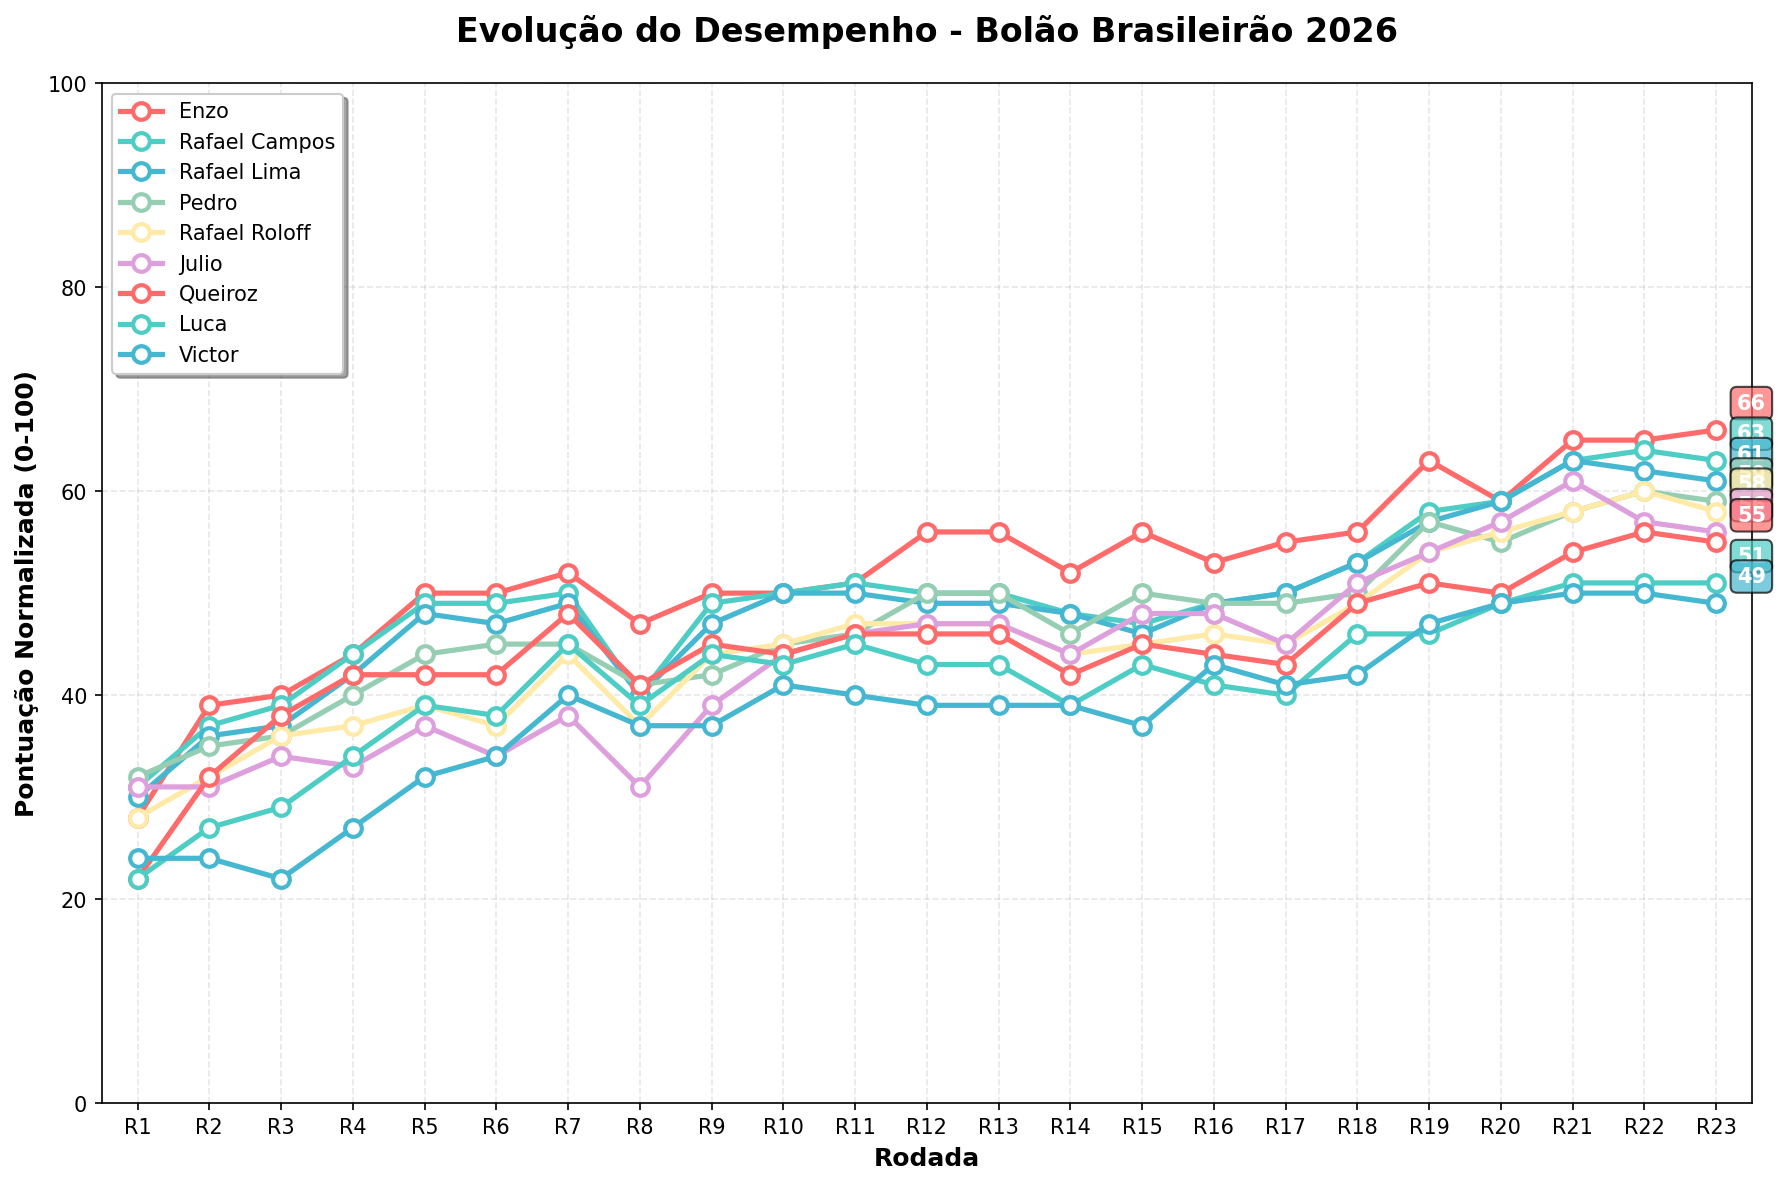
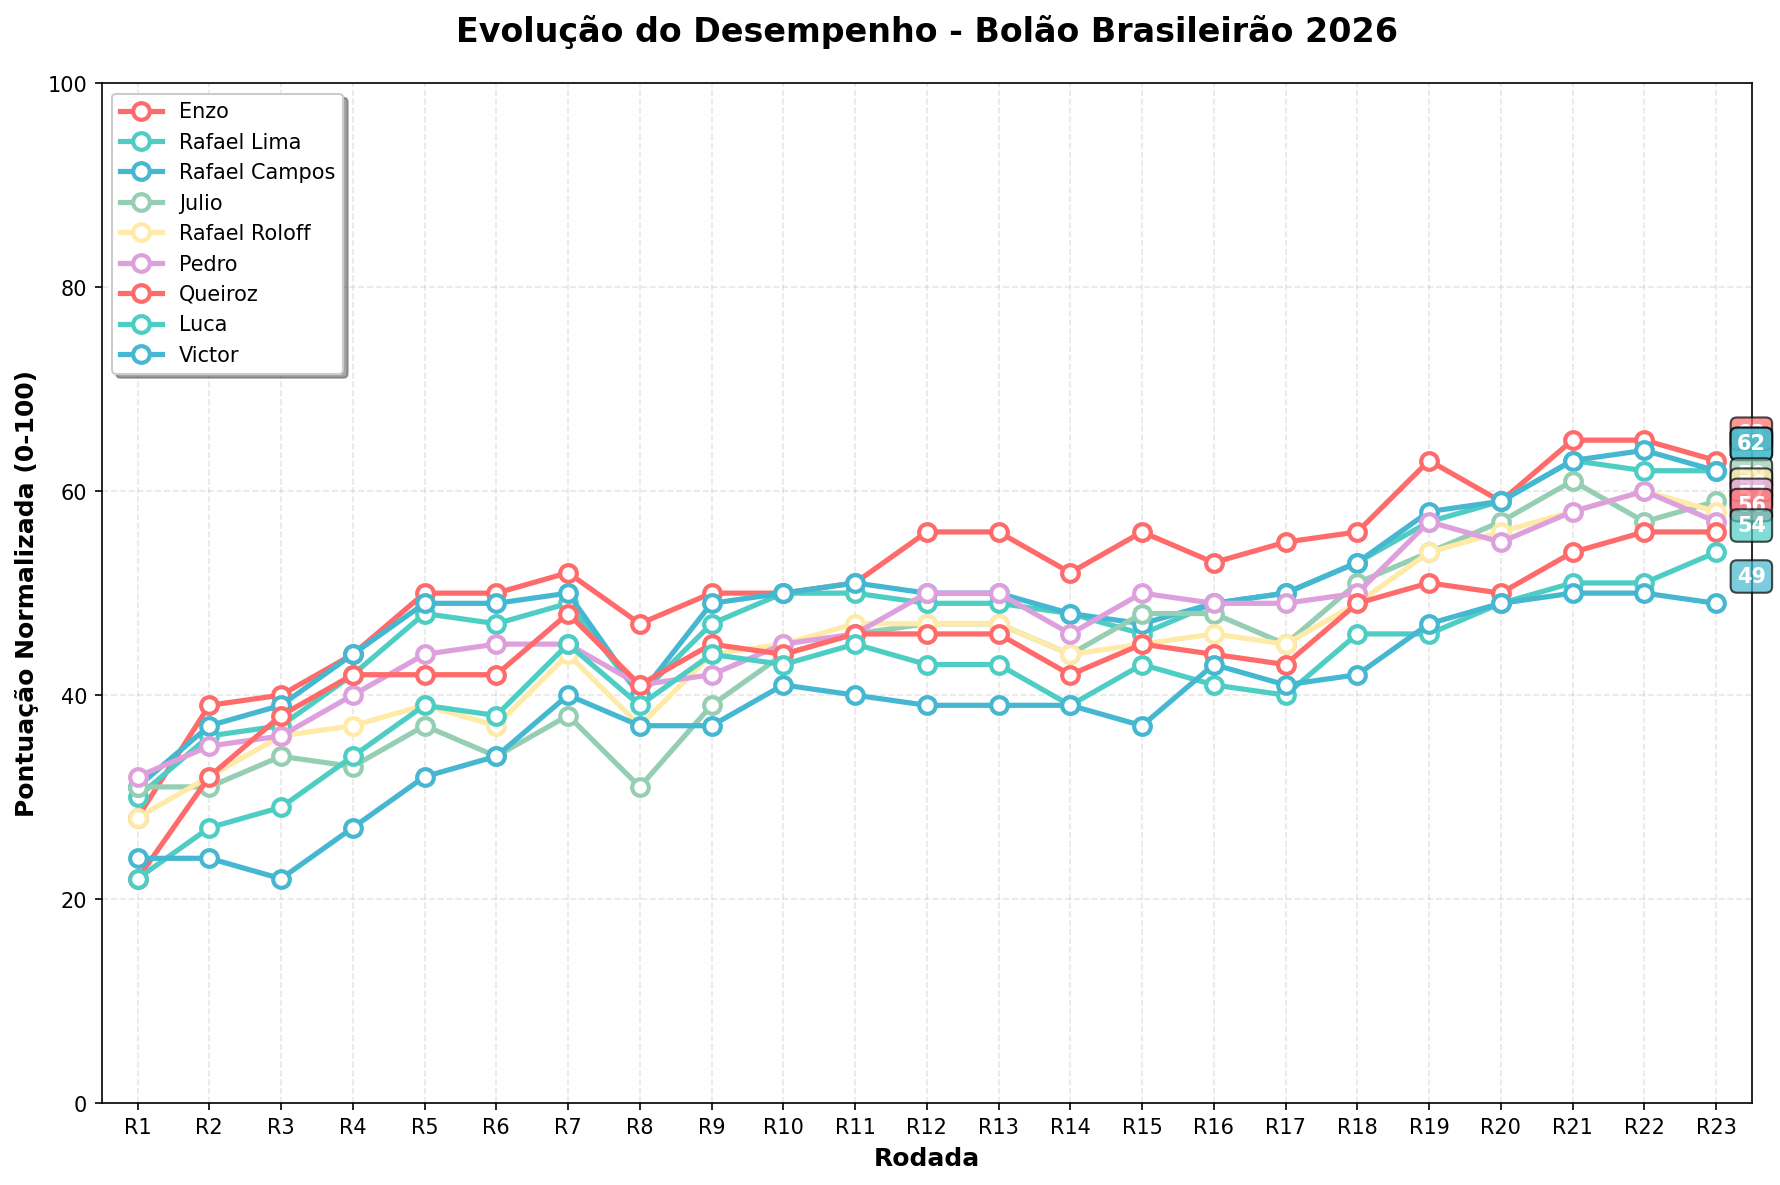
Atualizacao automatica - 18/08/2026 11:00:04,14

diff --git a/README.md b/README.md
@@ -2,70 +2,70 @@
 
 ## 🏆 Resultados Atuais
 
-**Última Atualização:** 2026-08-16 11:00:03
+**Última Atualização:** 2026-08-18 11:00:03
 
-| Time | Real | Enzo | Rafael Campos | Rafael Lima | Pedro | Rafael Roloff | Julio | Queiroz | Luca | Victor |
+| Time | Real | Enzo | Rafael Lima | Rafael Campos | Julio | Rafael Roloff | Pedro | Queiroz | Luca | Victor |
 |------|------|------|------|------|------|------|------|------|------|------|
-| Palmeiras | 1 | 2°(19p) | 3°(18p) | 3°(18p) | 3°(18p) | 2°(19p) | 2°(19p) | 3°(18p) | 3°(18p) | 3°(18p) |
-| Flamengo | 2 | 1°(19p) | 1°(19p) | 1°(19p) | 2°(20p) | 1°(19p) | 1°(19p) | 1°(19p) | 1°(19p) | 1°(19p) |
-| Atlético-PR | 3 | 17°(6p) | 17°(6p) | 17°(6p) | 18°(5p) | 17°(6p) | 17°(6p) | 15°(8p) | 17°(6p) | 13°(10p) |
-| Fluminense | 4 | 4°(20p) | 7°(17p) | 6°(18p) | 4°(20p) | 8°(16p) | 7°(17p) | 7°(17p) | 8°(16p) | 10°(14p) |
-| Cruzeiro | 5 | 3°(18p) | 2°(17p) | 2°(17p) | 1°(16p) | 3°(18p) | 3°(18p) | 2°(17p) | 2°(17p) | 7°(18p) |
-| Bahia | 6 | 5°(19p) | 4°(18p) | 4°(18p) | 7°(19p) | 6°(20p) | 5°(19p) | 4°(18p) | 5°(19p) | 9°(17p) |
-| Bragantino | 7 | 6°(19p) | 10°(17p) | 10°(17p) | 9°(18p) | 13°(14p) | 10°(17p) | 18°(9p) | 13°(14p) | 15°(12p) |
-| Corinthians | 8 | 8°(20p) | 8°(20p) | 9°(19p) | 8°(20p) | 5°(17p) | 9°(19p) | 6°(18p) | 10°(18p) | 8°(20p) |
-| Coritiba | 9 | 15°(14p) | 16°(13p) | 16°(13p) | 19°(10p) | 14°(15p) | 19°(10p) | 12°(17p) | 20°(9p) | 20°(9p) |
-| Botafogo | 10 | 10°(20p) | 9°(19p) | 8°(18p) | 5°(15p) | 7°(17p) | 6°(16p) | 11°(19p) | 11°(19p) | 5°(15p) |
-| Atlético-MG | 11 | 12°(19p) | 5°(14p) | 5°(14p) | 13°(18p) | 4°(13p) | 4°(13p) | 9°(18p) | 4°(13p) | 2°(11p) |
-| São Paulo | 12 | 16°(16p) | 12°(20p) | 14°(18p) | 15°(17p) | 16°(16p) | 15°(17p) | 17°(15p) | 14°(18p) | 16°(16p) |
-| Vitória | 13 | 18°(15p) | 18°(15p) | 18°(15p) | 17°(16p) | 18°(15p) | 16°(17p) | 19°(14p) | 18°(15p) | 17°(16p) |
-| Grêmio | 14 | 7°(13p) | 6°(12p) | 7°(13p) | 6°(12p) | 12°(18p) | 18°(16p) | 5°(11p) | 6°(12p) | 4°(10p) |
-| Mirassol | 15 | 13°(18p) | 11°(16p) | 11°(16p) | 12°(17p) | 10°(15p) | 8°(13p) | 8°(13p) | 12°(17p) | 14°(19p) |
-| Internacional | 16 | 14°(18p) | 15°(19p) | 13°(17p) | 14°(18p) | 15°(19p) | 14°(18p) | 14°(18p) | 15°(19p) | 6°(10p) |
-| Santos | 17 | 11°(14p) | 13°(16p) | 12°(15p) | 11°(14p) | 9°(12p) | 12°(15p) | 13°(16p) | 7°(10p) | 11°(14p) |
-| Vasco | 18 | 9°(11p) | 14°(16p) | 15°(17p) | 10°(12p) | 11°(13p) | 11°(13p) | 10°(12p) | 9°(11p) | 12°(14p) |
-| Remo | 19 | 20°(19p) | 20°(19p) | 20°(19p) | 16°(17p) | 20°(19p) | 13°(14p) | 16°(17p) | 16°(17p) | 19°(20p) |
+| Palmeiras | 1 | 2°(19p) | 3°(18p) | 3°(18p) | 2°(19p) | 2°(19p) | 3°(18p) | 3°(18p) | 3°(18p) | 3°(18p) |
+| Flamengo | 2 | 1°(19p) | 1°(19p) | 1°(19p) | 1°(19p) | 1°(19p) | 2°(20p) | 1°(19p) | 1°(19p) | 1°(19p) |
+| Atlético-PR | 3 | 17°(6p) | 17°(6p) | 17°(6p) | 17°(6p) | 17°(6p) | 18°(5p) | 15°(8p) | 17°(6p) | 13°(10p) |
+| Fluminense | 4 | 4°(20p) | 6°(18p) | 7°(17p) | 7°(17p) | 8°(16p) | 4°(20p) | 7°(17p) | 8°(16p) | 10°(14p) |
+| Cruzeiro | 5 | 3°(18p) | 2°(17p) | 2°(17p) | 3°(18p) | 3°(18p) | 1°(16p) | 2°(17p) | 2°(17p) | 7°(18p) |
+| Bahia | 6 | 5°(19p) | 4°(18p) | 4°(18p) | 5°(19p) | 6°(20p) | 7°(19p) | 4°(18p) | 5°(19p) | 9°(17p) |
+| Bragantino | 7 | 6°(19p) | 10°(17p) | 10°(17p) | 10°(17p) | 13°(14p) | 9°(18p) | 18°(9p) | 13°(14p) | 15°(12p) |
+| Atlético-MG | 8 | 12°(16p) | 5°(17p) | 5°(17p) | 4°(16p) | 4°(16p) | 13°(15p) | 9°(19p) | 4°(16p) | 2°(14p) |
+| Corinthians | 9 | 8°(19p) | 9°(20p) | 8°(19p) | 9°(20p) | 5°(16p) | 8°(19p) | 6°(17p) | 10°(19p) | 8°(19p) |
+| Coritiba | 10 | 15°(15p) | 16°(14p) | 16°(14p) | 19°(11p) | 14°(16p) | 19°(11p) | 12°(18p) | 20°(10p) | 20°(10p) |
+| Botafogo | 11 | 10°(19p) | 8°(17p) | 9°(18p) | 6°(15p) | 7°(16p) | 5°(14p) | 11°(20p) | 11°(20p) | 5°(14p) |
+| Vitória | 12 | 18°(14p) | 18°(14p) | 18°(14p) | 16°(16p) | 18°(14p) | 17°(15p) | 19°(13p) | 18°(14p) | 17°(15p) |
+| São Paulo | 13 | 16°(17p) | 14°(19p) | 12°(19p) | 15°(18p) | 16°(17p) | 15°(18p) | 17°(16p) | 14°(19p) | 16°(17p) |
+| Santos | 14 | 11°(17p) | 12°(18p) | 13°(19p) | 12°(18p) | 9°(15p) | 11°(17p) | 13°(19p) | 7°(13p) | 11°(17p) |
+| Grêmio | 15 | 7°(12p) | 7°(12p) | 6°(11p) | 18°(17p) | 12°(17p) | 6°(11p) | 5°(10p) | 6°(11p) | 4°(9p) |
+| Internacional | 16 | 14°(18p) | 13°(17p) | 15°(19p) | 14°(18p) | 15°(19p) | 14°(18p) | 14°(18p) | 15°(19p) | 6°(10p) |
+| Mirassol | 17 | 13°(16p) | 11°(14p) | 11°(14p) | 8°(11p) | 10°(13p) | 12°(15p) | 8°(11p) | 12°(15p) | 14°(17p) |
+| Remo | 18 | 20°(18p) | 20°(18p) | 20°(18p) | 13°(15p) | 20°(18p) | 16°(18p) | 16°(18p) | 16°(18p) | 19°(19p) |
+| Vasco | 19 | 9°(10p) | 15°(16p) | 14°(15p) | 11°(12p) | 11°(12p) | 10°(11p) | 10°(11p) | 9°(10p) | 12°(13p) |
 | Chapecoense | 20 | 19°(19p) | 19°(19p) | 19°(19p) | 20°(20p) | 19°(19p) | 20°(20p) | 20°(20p) | 19°(19p) | 18°(18p) |
-| **TOTAL** | | **336** | **330** | **326** | **322** | **320** | **316** | **314** | **306** | **300** |
+| **TOTAL** | | **330** | **328** | **328** | **322** | **320** | **318** | **316** | **312** | **300** |
 
 ### 🏅 Classificação Atual (pontuação normalizada 0-100)
 
-🥇 **Enzo**: 66 pontos<br>
-🥈 **Rafael Campos**: 63 pontos<br>
-🥉 **Rafael Lima**: 61 pontos<br>
-4. **Pedro**: 59 pontos<br>
+🥇 **Enzo**: 63 pontos<br>
+🥈 **Rafael Lima**: 62 pontos<br>
+🥉 **Rafael Campos**: 62 pontos<br>
+4. **Julio**: 59 pontos<br>
 5. **Rafael Roloff**: 58 pontos<br>
-6. **Julio**: 56 pontos<br>
-7. **Queiroz**: 55 pontos<br>
-8. **Luca**: 51 pontos<br>
+6. **Pedro**: 57 pontos<br>
+7. **Queiroz**: 56 pontos<br>
+8. **Luca**: 54 pontos<br>
 9. **Victor**: 49 pontos<br>
 
 ### 📈 Histórico de Desempenho
 
 ![Gráfico de Performance](performance_chart.png)
 
-| Rodada | Enzo | Rafael Campos | Rafael Lima | Pedro | Rafael Roloff | Julio | Queiroz | Luca | Victor |
+| Rodada | Enzo | Rafael Lima | Rafael Campos | Julio | Rafael Roloff | Pedro | Queiroz | Luca | Victor |
 |-------|-------|-------|-------|-------|-------|-------|-------|-------|-------|
-| R14 | 52 | 48 | 48 | 46 | 44 | 44 | 42 | 39 | 39 |
-| R15 | 56 | 47 | 46 | 50 | 45 | 48 | 45 | 43 | 37 |
-| R16 | 53 | 49 | 49 | 49 | 46 | 48 | 44 | 41 | 43 |
-| R17 | 55 | 50 | 50 | 49 | 45 | 45 | 43 | 40 | 41 |
-| R18 | 56 | 53 | 53 | 50 | 49 | 51 | 49 | 46 | 42 |
-| R19 | 63 | 58 | 57 | 57 | 54 | 54 | 51 | 46 | 47 |
-| R20 | 59 | 59 | 59 | 55 | 56 | 57 | 50 | 49 | 49 |
-| R21 | 65 | 63 | 63 | 58 | 58 | 61 | 54 | 51 | 50 |
-| R22 | 65 | 64 | 62 | 60 | 60 | 57 | 56 | 51 | 50 |
-| R23 | 66 | 63 | 61 | 59 | 58 | 56 | 55 | 51 | 49 |
+| R14 | 52 | 48 | 48 | 44 | 44 | 46 | 42 | 39 | 39 |
+| R15 | 56 | 46 | 47 | 48 | 45 | 50 | 45 | 43 | 37 |
+| R16 | 53 | 49 | 49 | 48 | 46 | 49 | 44 | 41 | 43 |
+| R17 | 55 | 50 | 50 | 45 | 45 | 49 | 43 | 40 | 41 |
+| R18 | 56 | 53 | 53 | 51 | 49 | 50 | 49 | 46 | 42 |
+| R19 | 63 | 57 | 58 | 54 | 54 | 57 | 51 | 46 | 47 |
+| R20 | 59 | 59 | 59 | 57 | 56 | 55 | 50 | 49 | 49 |
+| R21 | 65 | 63 | 63 | 61 | 58 | 58 | 54 | 51 | 50 |
+| R22 | 65 | 62 | 64 | 57 | 60 | 60 | 56 | 51 | 50 |
+| R23 | 63 | 62 | 62 | 59 | 58 | 57 | 56 | 54 | 49 |
 
 **Tendência (últimas 2 medições):**
-- **Enzo**: 📈 +1
-- **Rafael Campos**: 📉 -1
-- **Rafael Lima**: 📉 -1
-- **Pedro**: 📉 -1
+- **Enzo**: 📉 -2
+- **Rafael Lima**: ➡ =0
+- **Rafael Campos**: 📉 -2
+- **Julio**: 📈 +2
 - **Rafael Roloff**: 📉 -2
-- **Julio**: 📉 -1
-- **Queiroz**: 📉 -1
-- **Luca**: ➡ =0
+- **Pedro**: 📉 -3
+- **Queiroz**: ➡ =0
+- **Luca**: 📈 +3
 - **Victor**: 📉 -1
 
 ## 🎯 Sistema de Pontuação
